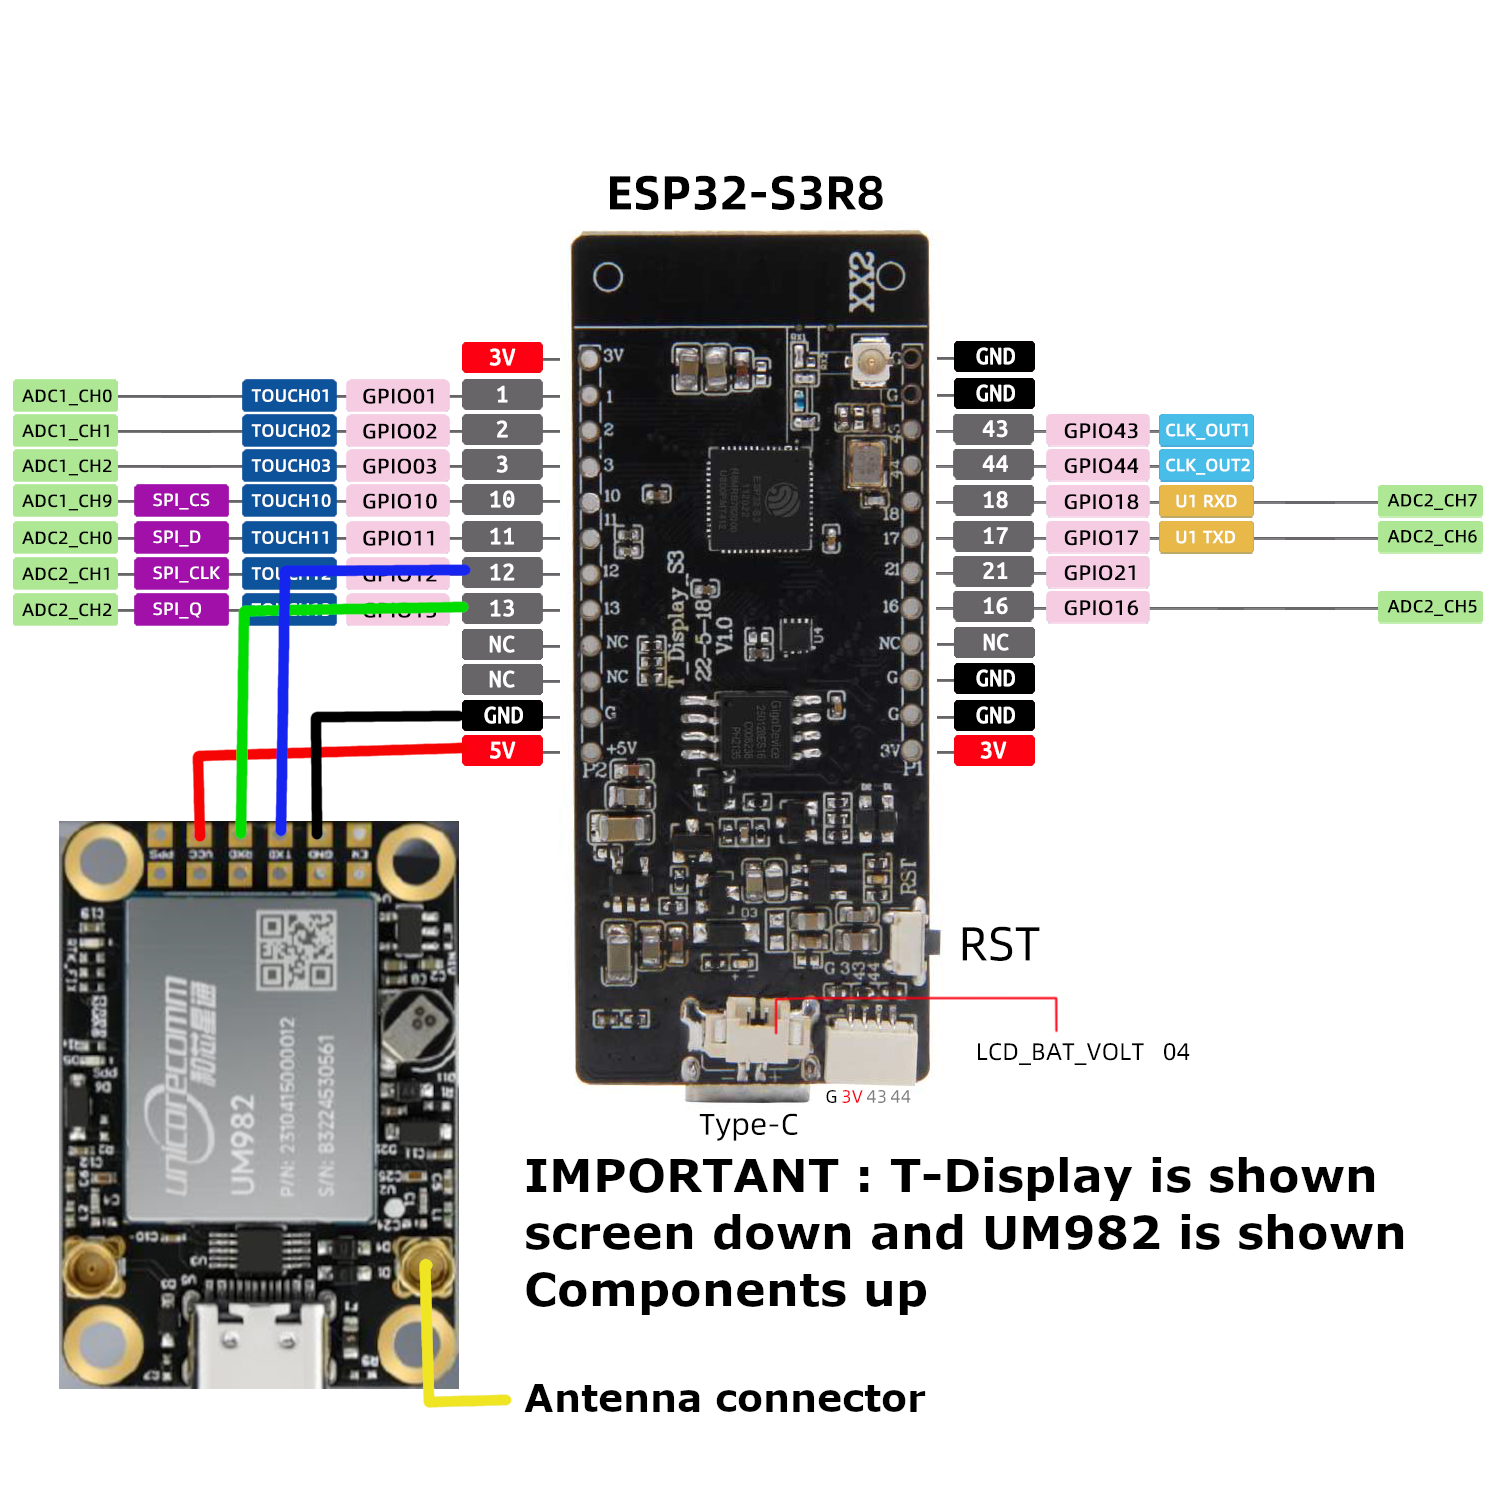
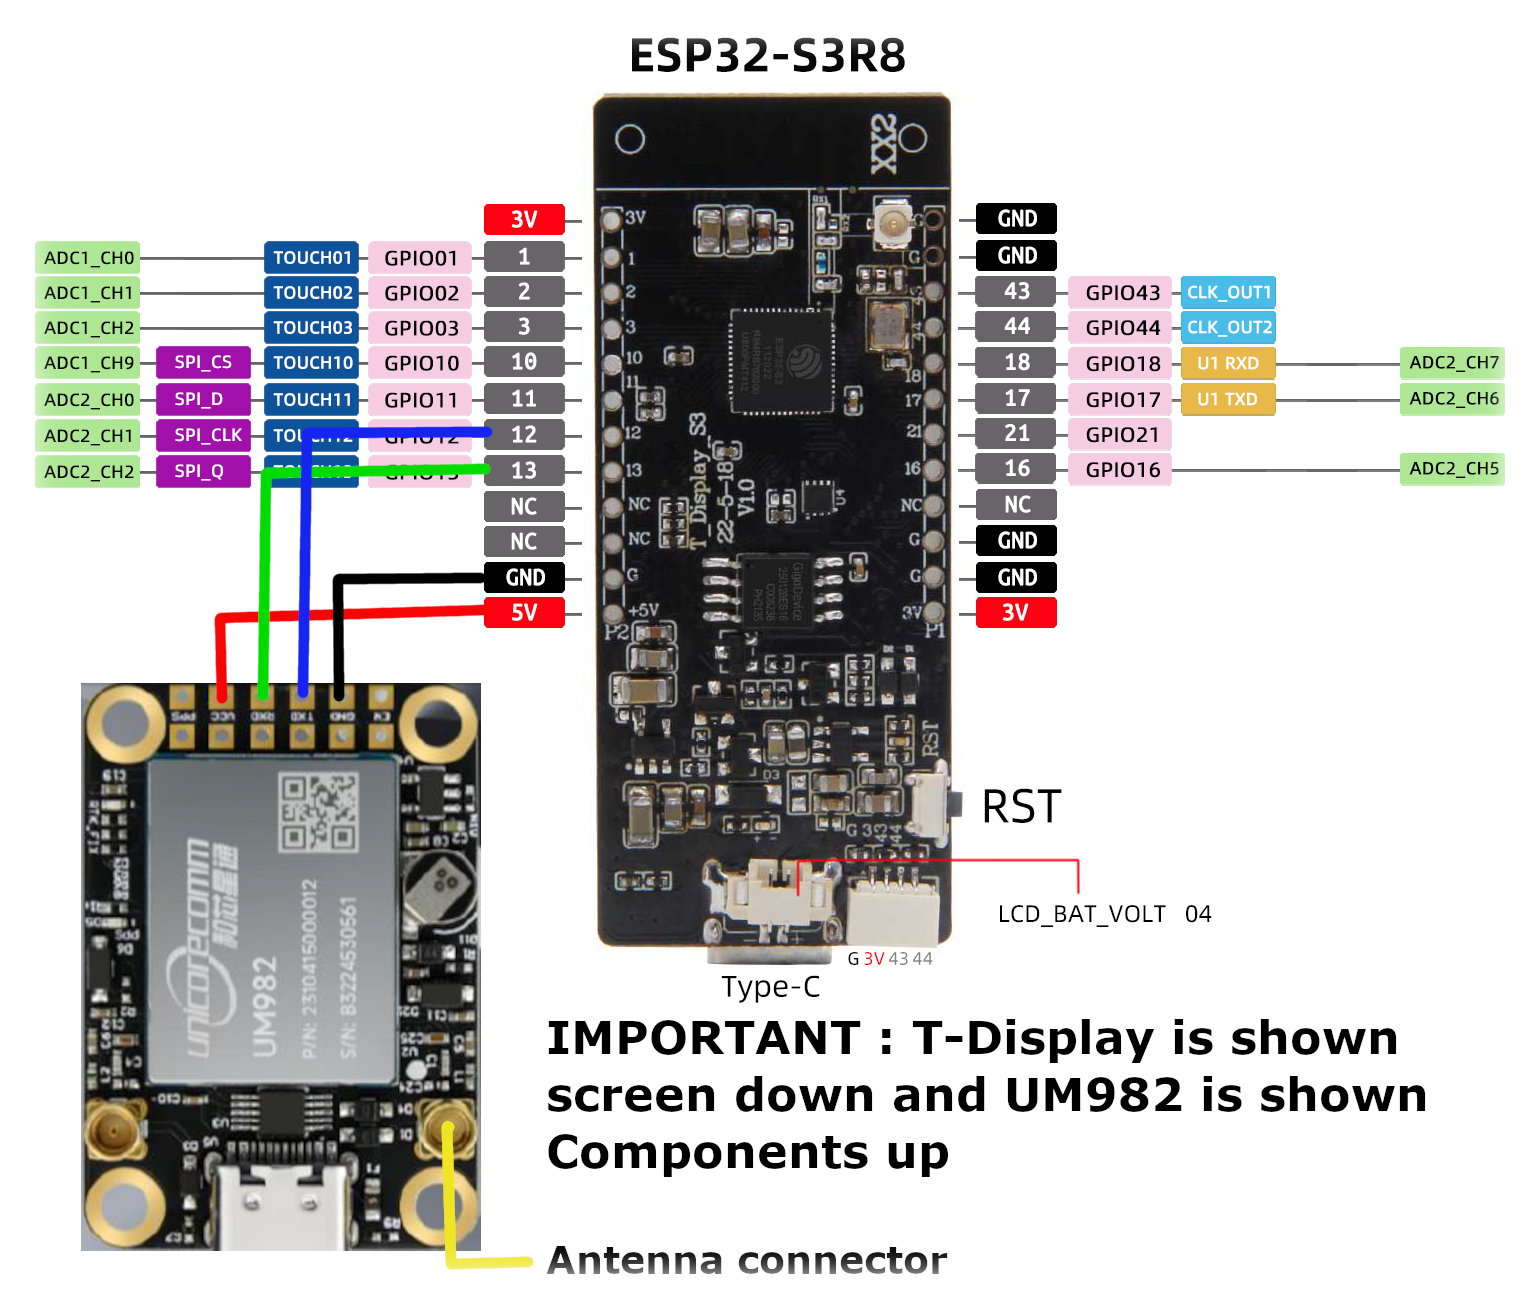
* Switch back to UM98x * Add more wiring photos

diff --git a/UM98RTKServer/include/Global.h b/UM98RTKServer/include/Global.h
@@ -6,7 +6,7 @@
 #define SERIAL_LOG
 
 // Enables the LC29HDA code (Comment out for UM980 and UM982)
-#define IS_LC29HDA
+//#define IS_LC29HDA
 
 // The TTGO T-Display has the following pins
 #if USER_SETUP_ID == 25
